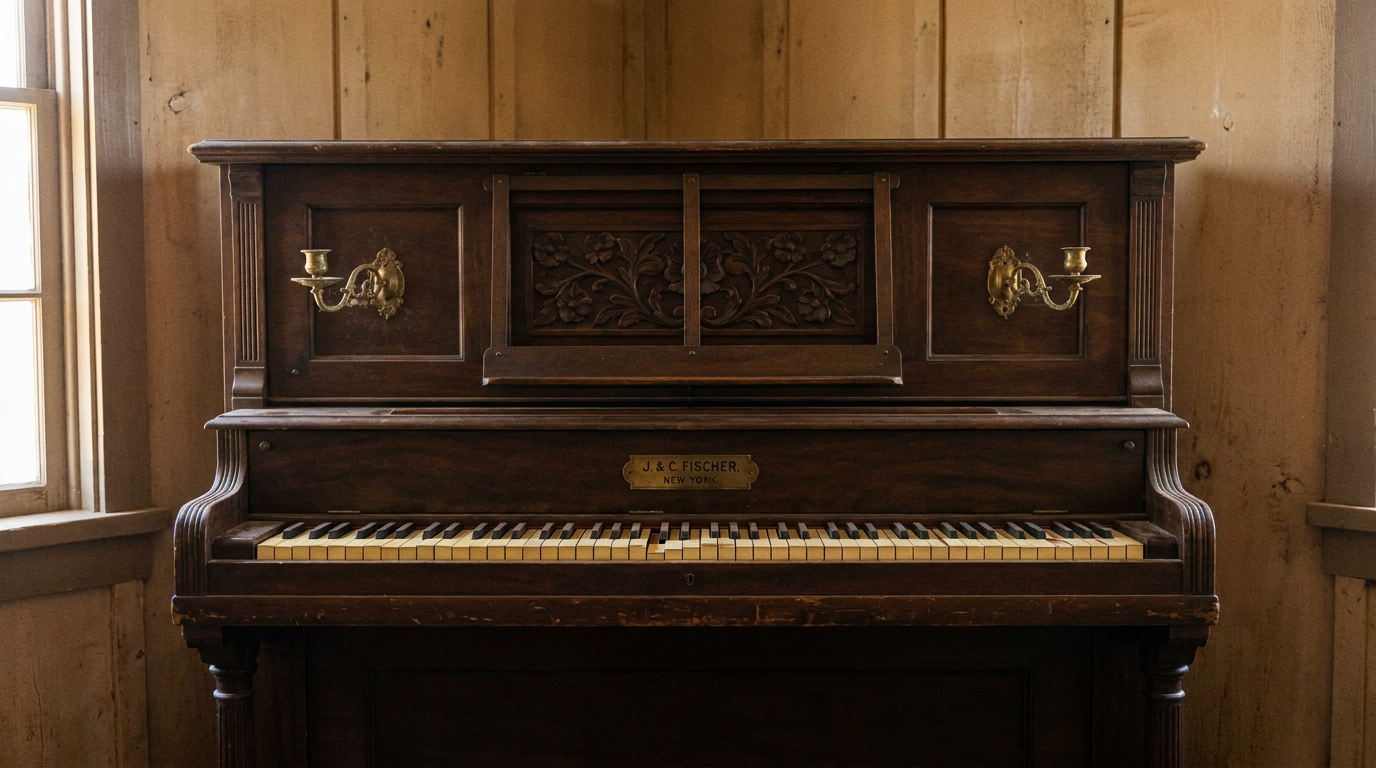
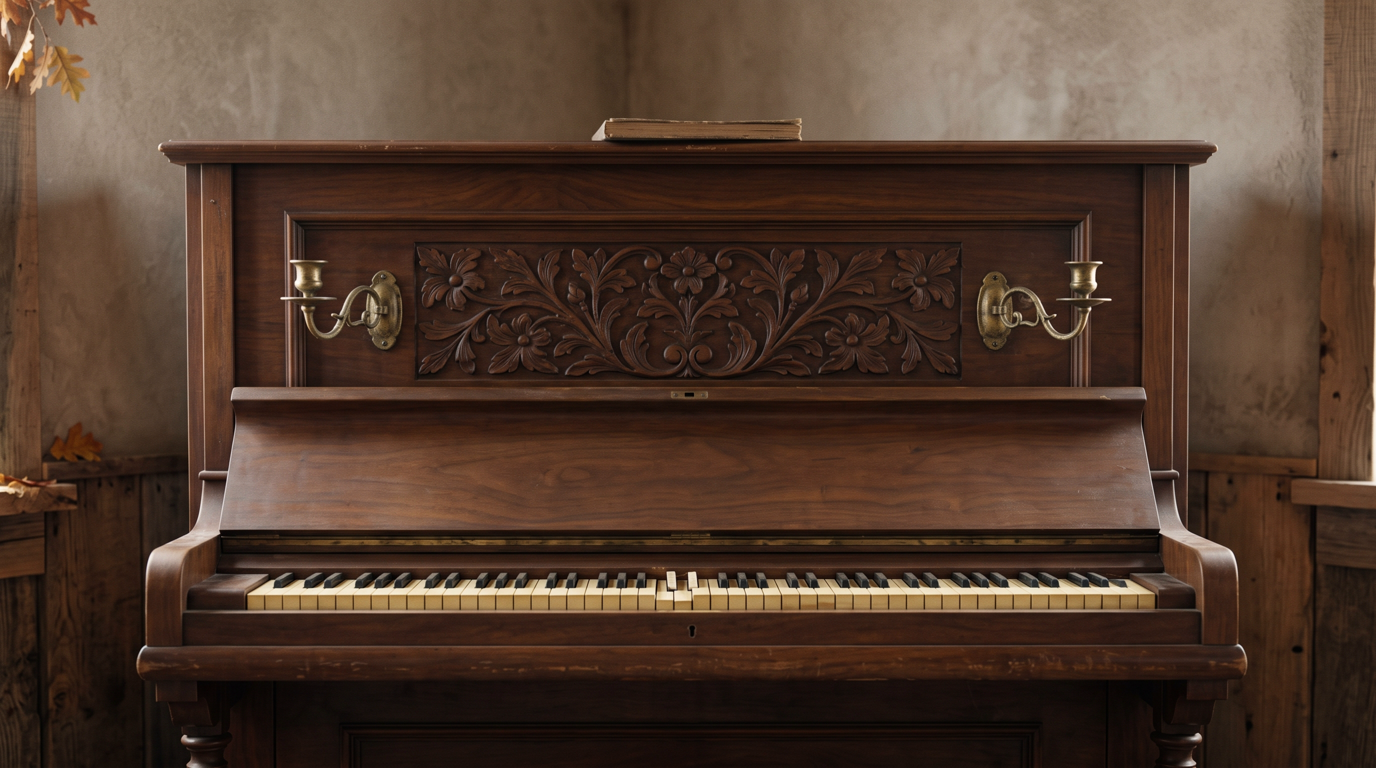
phase 1: PROP_PIANO (no nameplate), PROP_HORSE, 8 LOC_* from Gemini; manifest refs

diff --git a/README.md b/README.md
@@ -2,9 +2,11 @@
 
 Work in progress. Source of truth: briefs/western_widows_piano/shotlist.json (branch tools/montage).
 
-## Status: Phase 1 (references), waiting for STOP 1
-- Characters: 8 of 8 done, 3 angles each (front, 3/4, full body) in visuals/refs/ (CHAR_*_front/_34/_full.png, 1376x768).
-  The 3/4 and full-body images were made with the chosen front image as the face reference.
+## Status: Phase 1 (references) done, waiting for the user's OK on the sheet; then Phase 2 (clip tests)
+- Characters: 8 of 8, 3 angles each (front, 3/4, full body) in visuals/refs/ (CHAR_*_front/_34/_full.png, 1376x768). Clara, Deke and Marshal were re-made with new faces (user's choice: Clara v2, Deke v4, Marshal v2). Mercer, Lily, Pike, Agatha and Sam are the approved first versions.
+- Props and locations: PROP_PIANO (no nameplate), PROP_HORSE, and 8 LOC_* are done (visuals/refs/).
+- Images for the whole film are made in Gemini (image mode, 16:9, 2752x1536 originals scaled to 1376x768 in refs) because Flow's image limit (daily) was hit; video is Flow only.
+- Flow credits spent so far: 7 (one 4 s test clip). Flow project: 7a937194-22cf-4e10-a8ea-406b0d82a514.
 - STOP 1 answer (3 Oct): Mercer, Lily, Pike, Agatha, Sam approved. Clara, Deke and Marshal are being redone (new faces; Clara 28-30, beautiful,
   soft features, tiredness only in the eyes; Deke and Marshal must not resemble known actors). The current files for these three are the OLD versions.
 - Props and locations: PROP_PIANO downloaded (note: the brass plate on it reads "J. & C. FISCHER, NEW YORK"; a text-free variant may be remade).
